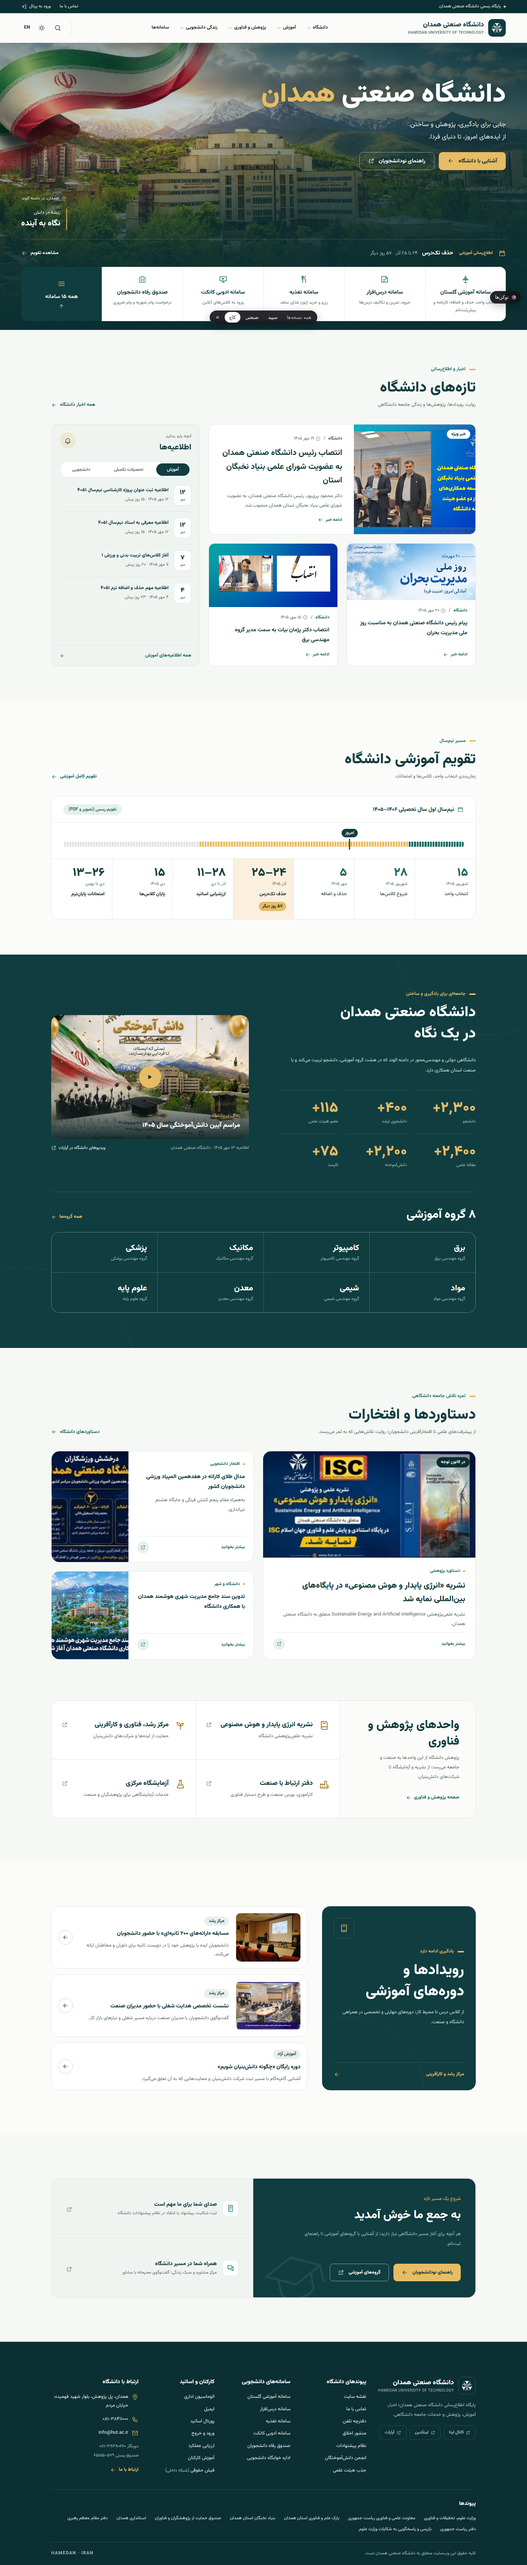
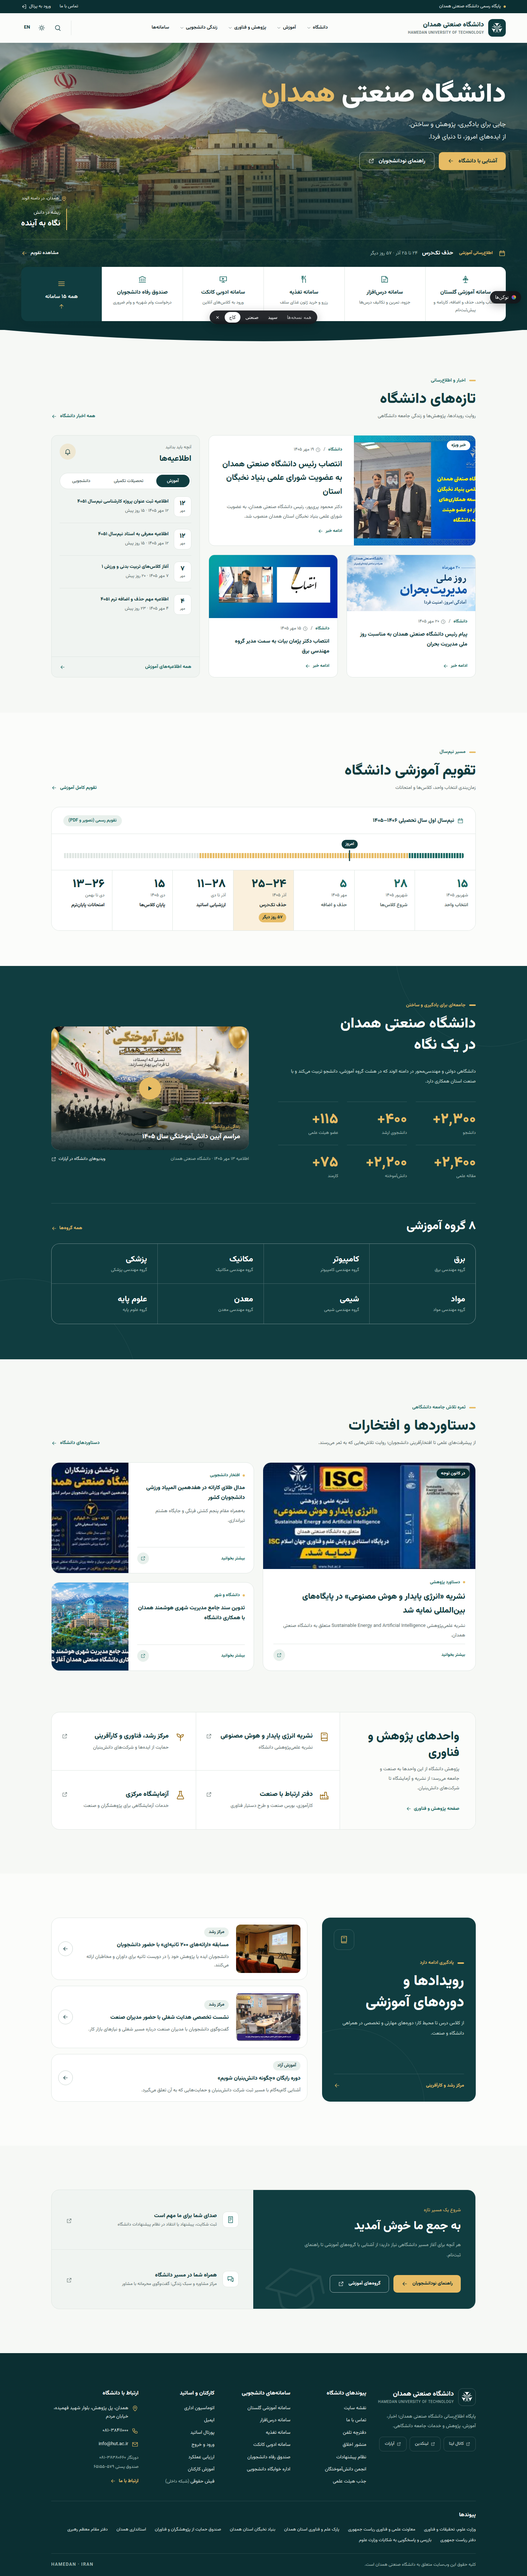
Round off the bottom of the V11 hero with a shallow arc
The dark band hangs below the full-height hero in one arc, lowest at the centre, and slides with
the sections below when the systems list opens.

diff --git a/src/versions/v11-kaj/index.tsx b/src/versions/v11-kaj/index.tsx
@@ -27,6 +27,7 @@ import { SkipLink } from '../../shared/components/SkipLink'
 import { useToday } from '../../shared/hooks/useToday'
 import { semesterState } from '../../shared/utils/semester'
 import { Achievements } from './components/Achievements/Achievements'
+import { Arc } from './components/Arc/Arc'
 import { Footer } from './components/Footer/Footer'
 import { Glance } from './components/Glance/Glance'
 import { Header } from './components/Header/Header'
@@ -147,6 +148,9 @@ export default function KajHome() {
             allServicesHref={SERVICES_HREF}
           />
         </Hero>
+        <ViewTransition default="v11-slide">
+          <Arc className="fill-band-deep" />
+        </ViewTransition>
 
         {/* When the systems panel opens, these slide down to their new place instead of jumping. */}
         <ViewTransition default="v11-slide">

diff --git a/src/versions/v11-kaj/components/Arc/Arc.tsx b/src/versions/v11-kaj/components/Arc/Arc.tsx
@@ -1,0 +1,9 @@
+/** A shallow arc under a dark band: its colour hangs down, lowest at the centre. The caller sets the fill. */
+export function Arc({ className = '' }: { className?: string }) {
+  return (
+    <svg className={`-mt-px block h-[clamp(14px,2.2vw,32px)] w-full ${className}`} viewBox="0 0 1000 100" preserveAspectRatio="none" aria-hidden="true">
+      {/* drawn in a 1000×100 box and stretched to the width */}
+      <path d="M0,0 H1000 Q500,200 0,0Z" />
+    </svg>
+  )
+}
